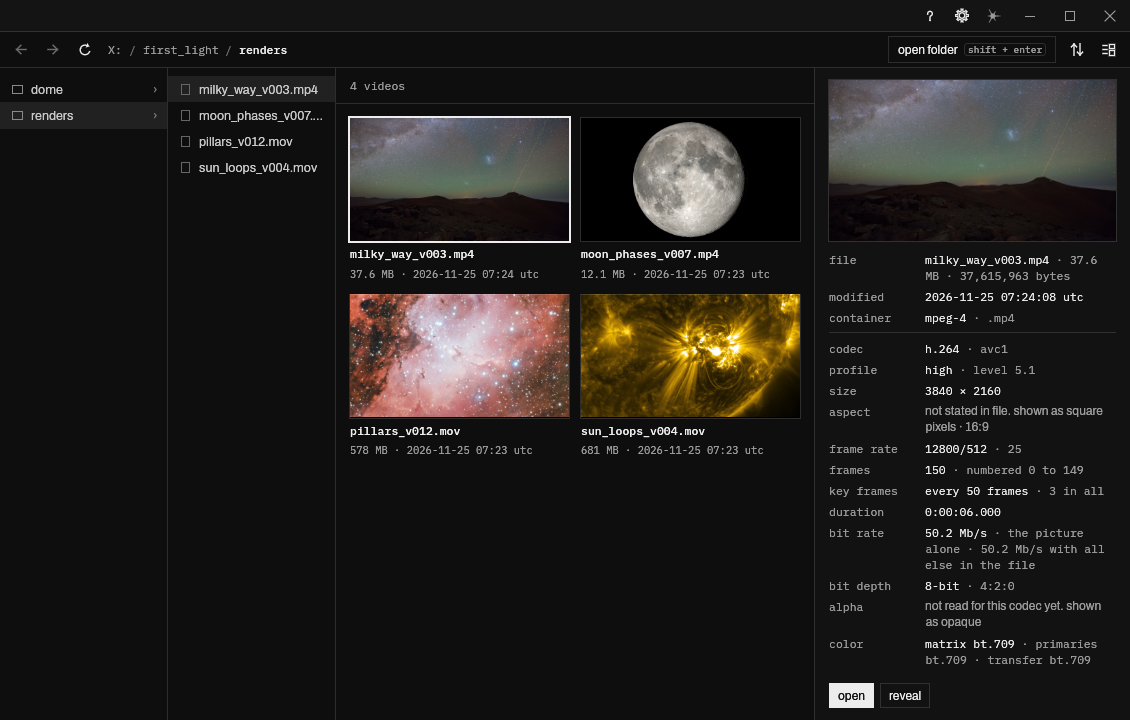
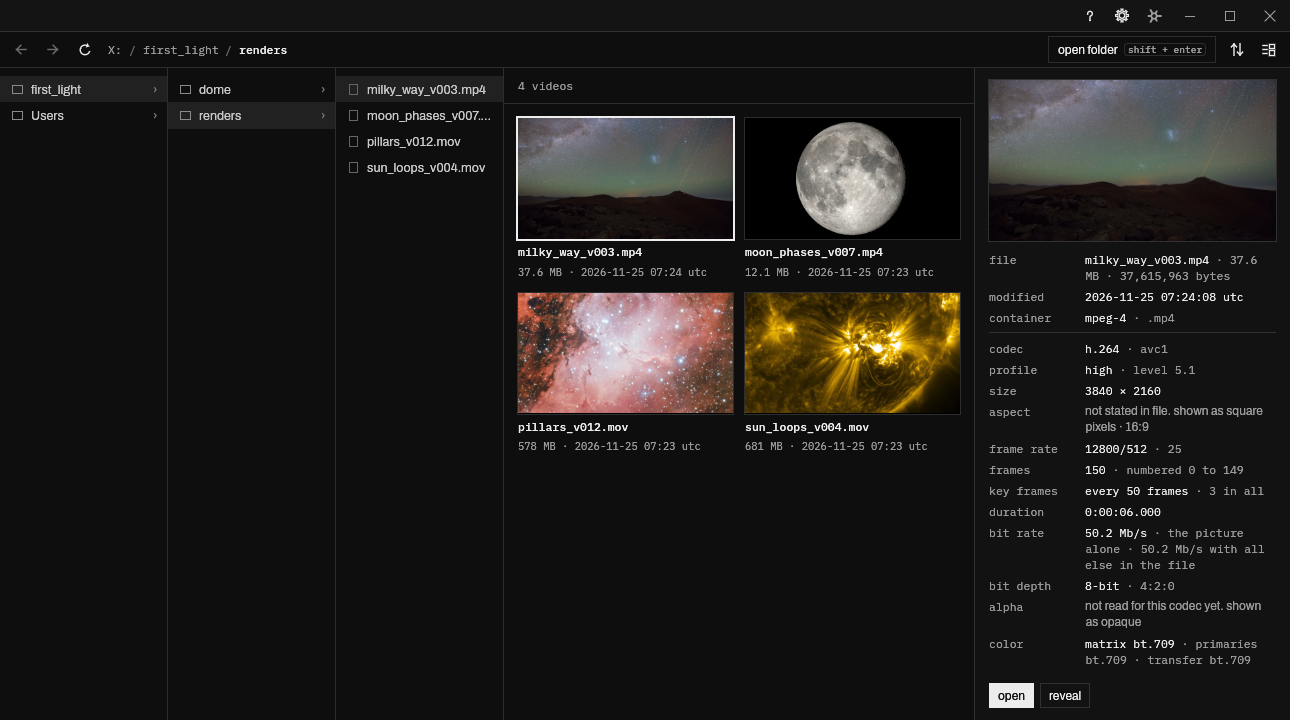
docs: the readme's screenshots retaken from 0.3.3, the scripts that take them, and a rule to retake them every release

diff --git a/docs/development.md b/docs/development.md
@@ -294,6 +294,8 @@ powershell -NoProfile -ExecutionPolicy Bypass -File scripts\notices.ps1 -Check
 
 ## releases and updates
 
+before a release, the readme is brought up to date with what it ships, and its screenshots are retaken (below, "the readme's screenshots"), in the release commit or before it.
+
 a release is cut from the installer with `scripts\release.ps1`. it writes `dist\eyepiece-release.txt`, the release manifest (adr 0007): the version from Cargo.toml, the day, a line for each change in the notes file, and the installer, `dist\eyepiece-<version>-windows-setup.exe`, with its size and sha-256 (adr 0008). with `-Publish` it makes the release `v<version>` on github with `gh`: the installer and the manifest as its assets, and the notes as its text. it refuses first if the installer is not signed. `-Mac` adds the mac's disk image as one more asset, as it is, kept out of the manifest. no library or text file is an asset of a release: they are inside the installer.
 
 ```powershell
@@ -304,6 +306,21 @@ powershell -NoProfile -ExecutionPolicy Bypass -File scripts\release.ps1 -Notes n
 ```
 
 what the player checks (`src/update`): it reads the manifest of the latest release, `releases/latest/download/eyepiece-release.txt`, and offers only a greater version, compared number by number, whose manifest names its installer. it downloads the installer into `%LOCALAPPDATA%\eyepiece\update\<version>`, checking its size and sha-256 as it lands; one that fails is set aside there as `<name>.failed` (its next failure replaces it), and one already there whole is not downloaded again. before it runs, it is checked again from the disk, and taken only when windows trusts its signature and its signer is the running program's (the certificate's subject and its root; nothing is fetched to decide it). from that check the player holds it open for reading only, starts it with `/SILENT /NORESTART /update=<its pid>` and the files open now in `EYEPIECE_REOPEN`, and closes. the installer waits for that player to end (up to 30 s), installs with its progress on screen, and starts the new build on those files. a build that is not signed itself (a developer build) checks but never updates itself. nothing is sent but the requests, as `eyepiece/<version>`. `EYEPIECE_UPDATE_FROM` (as `http://127.0.0.1:39417/`) reads releases from a folder served by hand, laid out as github's (`latest/download/eyepiece-release.txt`, `download/v<version>/<file>`), with every check as it is; plain http is taken only from 127.0.0.1 (a port outside windows' reserved 8085 to 8184). tried end to end on the dev machine on 2026-11-25, once, with two signed builds: 0.3.0 installed by its installer, very silently, in 5 s; 0.3.1's manifest and installer (40.6 MB) served from 127.0.0.1; update pressed in 0.3.0, open on two clips, by posted messages. 0.3.0 had ended 1.5 s after the press, and 0.3.1's window was up 4.8 s after that, one process, installed byte for byte, on the same two clips (one named with a space and an é). none of it has run against a real github release: the repo is private and adr 0005 holds public downloads. on macOS only the check is written, and it has been neither compiled nor run there.
+
+## the readme's screenshots
+
+the pictures in `docs\images` are the player's own window, each from a player of its own (`scripts\shot.ps1`: its own settings, instance and mute, sized to 1280 × 720, driven by posted keys and pointer, saved with PrintWindow; the screen is never copied). they are of the demo footage: four free 4K sources (credited in the readme) cut to six-second excerpts, without their sound, by `scripts\footage.ps1`, put on `X:` so every path the player shows is `X:\...` and nothing of the pc that took them.
+
+```powershell
+# once: the demo footage (about 2.4 GB, read over https from nasa, esa/webb and eso), then a drive for it
+powershell -NoProfile -ExecutionPolicy Bypass -File scripts\footage.ps1 -Root C:\eyepiece-demo
+subst X: C:\eyepiece-demo
+# every release: all of them from the release build, or -Only hero,browser for some
+cargo build --release
+powershell -NoProfile -ExecutionPolicy Bypass -File scripts\shots.ps1
+```
+
+each player window opens on the screen for a few seconds. the browser's picture is cut clear of its sidebar, which lists the pc's own pinned folders. the steps are pointer places in a 1280 × 720 window: when the controls move, a shot that clicks them has to be told where they went. look at every picture before it is committed.
 
 ## the gates (phase 0)
 

diff --git a/CLAUDE.md b/CLAUDE.md
@@ -25,4 +25,5 @@ use the terms in `GLOSSARY.md` and read the ADRs in `docs/adr/` for the area you
 - `spike/` is throwaway. it answers the gates in `docs/phase-0.md`. it stays while the mac renderer still has gates to rerun, and is deleted after that with the owner's ok. the player never depends on it.
 - the player is the crate at the repo root. `cargo test` and `cargo run` need `scripts\setup.ps1` once.
 - commits: `type: details`, lowercase, one line. types: fix, feat, chore, docs, refactor, test, release.
+- every release brings the readme up to date and retakes its screenshots (`scripts\shots.ps1`), before or in the release commit (the owner, 2026-11-26).
 - a phase is done when its build is installed and checked on the owner's machine, not when it passes here.
